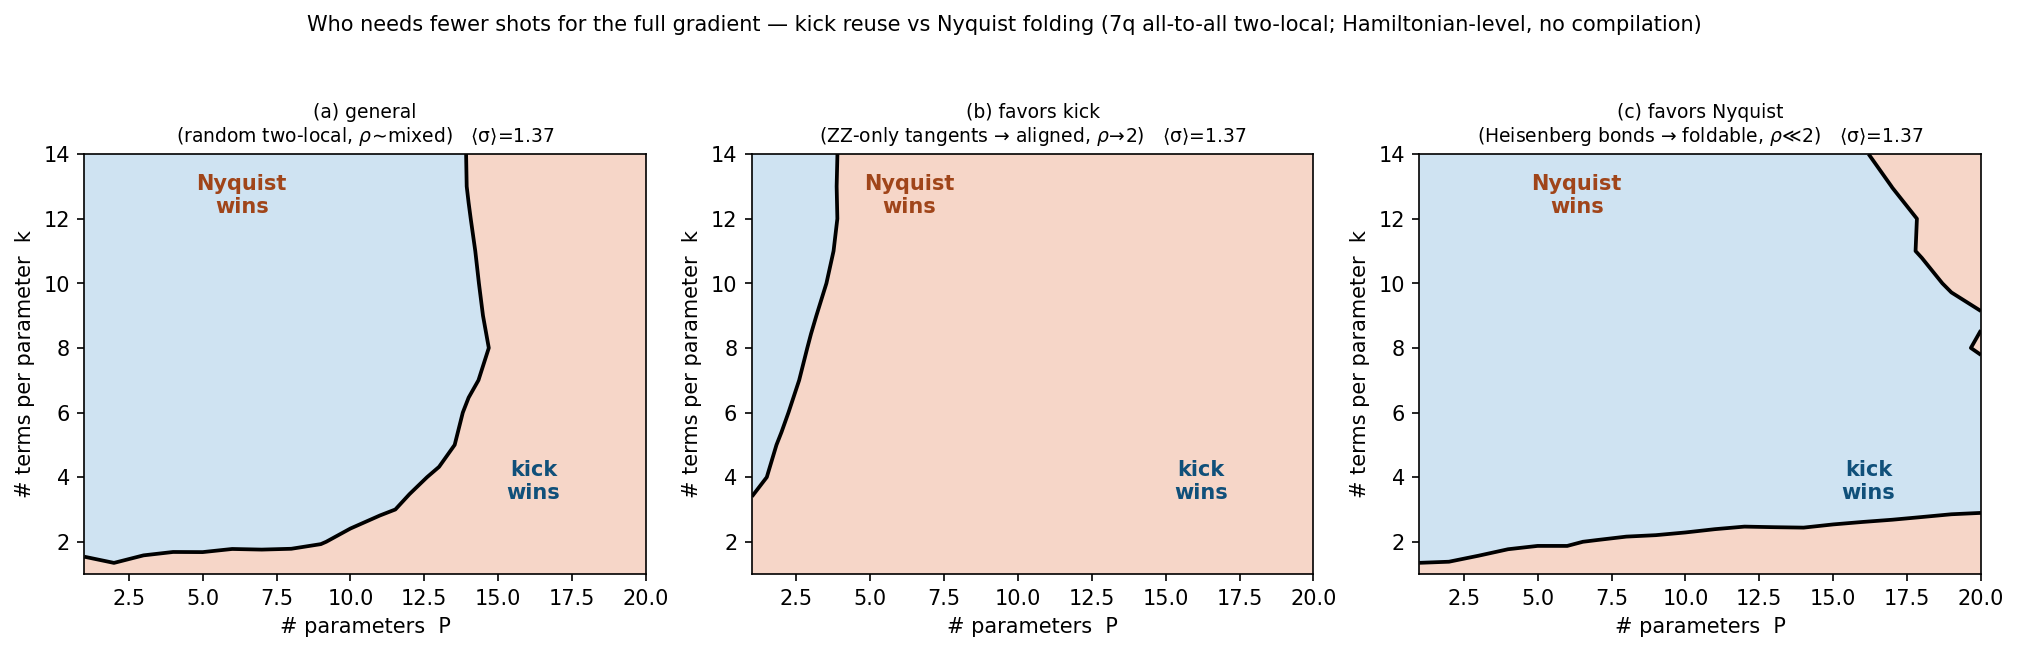
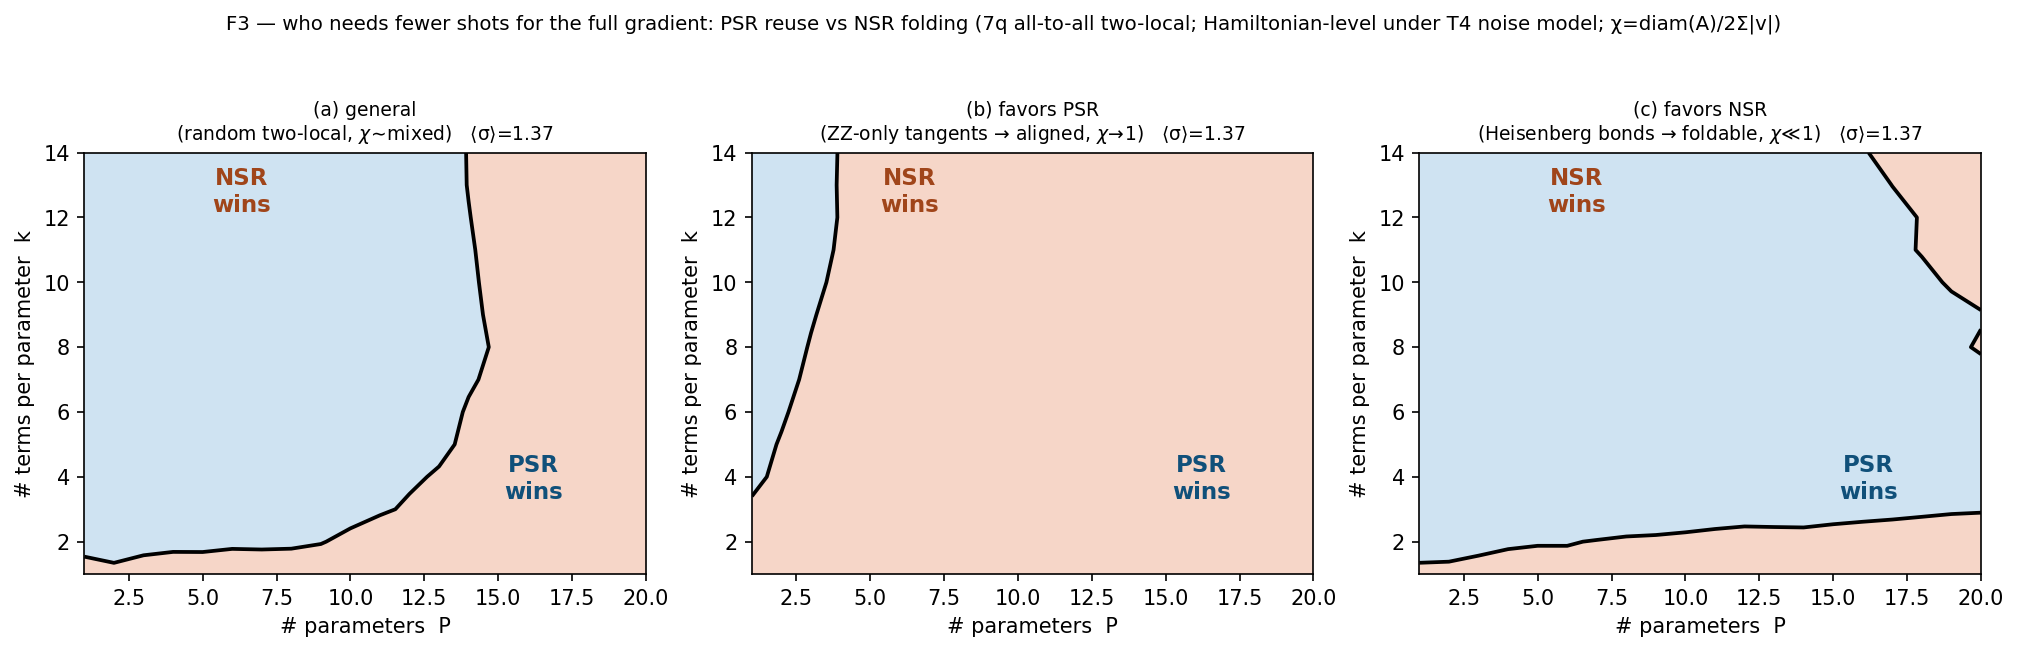
SEC6 P1-C (F3 relabel) + P0-B (T4 noise table)
F3: kick→PSR, Nyquist→NSR, ρ→χ (=diam(A)/2Σ|v|, aligned χ→1, foldable χ≪1), subtitle
now "Hamiltonian-level under T4 noise model" (no compiled spot-check overlay per
P0-A.5); ⟨σ⟩=1.37 kept in caption (P0-A.2).

T4: single-source-of-truth noise table (T4.csv + rendered PNG). Channels from
noise_model.py (dressed T2* dephasing, T1 off, Z-type kick gate error 1q=1e-4/2q=1e-3
Evered-anchored, leakage off) + control setpoint error δ=0.02. ALL rates θ-independent
(flagged — underlies PSR/NSR unbiasedness). Values marked best-guess pending
calibration confirmation. Data note: defaults are from the codebase; δ and gate-error
magnitudes are best-guess (P0-B uncertainty), used per the user's go-ahead.

diff --git a/differential_computing/tests/sec6_T4_noise_table.py b/differential_computing/tests/sec6_T4_noise_table.py
@@ -1,0 +1,85 @@
+"""
+sec6_T4_noise_table.py — P0-B: T4, the calibrated Hamiltonian-level noise model.
+
+Single source of truth for every noise number in Section 6.  These are the channels
+of noise_model.py (+ the parameter-level control error δ), applied by NoisyQuTiPRunner
+at the segment level.  It is a LITERATURE-CALIBRATED model, NOT a device calibration
+file — provenance strings marked (best-guess) are defaults from the codebase, to be
+confirmed.  KEY ASSUMPTION (flagged): every rate is θ-INDEPENDENT — this is what makes
+the compiled PSR/NSR estimator unbiased for ∇C_noisy (T1's noisy-gradient cell).
+
+Writes T4.csv and renders figures/sec6_T4_noise_table.png.
+Run: conda run -n qec_pg python differential_computing/tests/sec6_T4_noise_table.py
+"""
+import csv
+import os
+
+import matplotlib
+matplotlib.use("Agg")
+import matplotlib.pyplot as plt
+
+FIGDIR = os.path.abspath(os.path.join(os.path.dirname(__file__), "..", "figures"))
+OUTDIR = os.path.abspath(os.path.join(os.path.dirname(__file__), ".."))
+
+# columns: channel, operator, rate (default), source, segments applied, θ-indep, note
+ROWS = [
+    ["dressed T2* dephasing", "Z_i  (sqrt(γφ/2))", "γφ = 1/T2*,  T2* = 5.0 μs",
+     "dressed-state T2*/scattering (literature, Evered/Bluvstein-class)",
+     "interaction / dressed-evolution segments", "yes",
+     "regime set by T/T2* (0.15 headline, 0.5 appendix); T=T/T2*·T2*"],
+    ["T1 relaxation", "σ⁻_i  (sqrt(1/T1))", "1/T1,  T1 = ∞ (OFF)",
+     "amplitude damping (long-clock)",
+     "all segments (1q / halt / transport)", "yes",
+     "off by default in Sec 6 figs; long-clock price of Sec 5.2 is dephasing-dominated"],
+    ["kick gate error, 1q (Z-type)", "coh. exp(-iθZ) + incoh. Z-dephasing",
+     "ε_1q = 1e-4  (best-guess)",
+     "Evered et al. 2026 (arXiv:2604.25987); 1q ≈ 0",
+     "single-qubit kick-insertion segments", "yes",
+     "Z/phase-dominated (Doppler, |r'>), X≈0; magnitude best-guess"],
+    ["kick gate error, 2q (Z-type)", "coh. exp(-iθZ) + incoh. Z-dephasing",
+     "ε_2q = 1e-3  (best-guess)",
+     "Evered et al. 2026 (arXiv:2604.25987)",
+     "two-qubit (ZZ) kick-insertion segments", "yes",
+     "coherent fraction = 0.5 of ε (Doppler/laser-phase); rest incoherent Z"],
+    ["post-selected leakage", "Γ|1><1|_i (no-jump, renorm.)",
+     "Γ = 0 (OFF)",
+     "dressed |1> loss to dark ground sublevel",
+     "dressed segments", "yes",
+     "off in Sec 6 gradient figs; conditional (post-selected) evolution when on"],
+    ["control setpoint error δ", "additive θ-offset ~ N(0, r)",
+     "r = 0.02  (BEST-GUESS)",
+     "control resolution — NOT a device calibration; default from landscape_device.py",
+     "programmed θ setpoint: FD's θ±ε, PSR/NSR base θ", "yes",
+     "floors FD's ε and enters as δ/ε; ε-free PSR/NSR see only a 2nd-order shift"],
+]
+HEADER = ["channel", "operator", "rate (default)", "source", "segments applied",
+          "θ-independent", "note"]
+
+
+def main():
+    os.makedirs(FIGDIR, exist_ok=True)
+    with open(os.path.join(OUTDIR, "T4.csv"), "w", newline="") as f:
+        w = csv.writer(f); w.writerow(HEADER); w.writerows(ROWS)
+    print("wrote", os.path.join(OUTDIR, "T4.csv"))
+
+    fig, ax = plt.subplots(figsize=(13.5, 3.4)); ax.axis("off")
+    show = [[r[0], r[1], r[2], r[4], r[5]] for r in ROWS]   # drop source/note cols for width
+    cols = ["channel", "operator", "rate (default)", "segments", "θ-indep"]
+    t = ax.table(cellText=show, colLabels=cols, cellLoc="left", loc="center",
+                 colWidths=[0.22, 0.24, 0.20, 0.28, 0.08])
+    t.auto_set_font_size(False); t.set_fontsize(7.6); t.scale(1, 1.7)
+    for (r, c), cell in t.get_celld().items():
+        cell.set_edgecolor("#cccccc")
+        if r == 0:
+            cell.set_facecolor("#eeeeee"); cell.set_text_props(weight="bold")
+    ax.set_title("T4 — calibrated Hamiltonian-level noise model (single source of truth for Sec 6)\n"
+                 "all rates θ-INDEPENDENT (⇒ PSR/NSR unbiased for ∇C_noisy);  full source/notes in T4.csv;"
+                 "  values marked best-guess pending calibration confirmation", fontsize=9)
+    fig.tight_layout()
+    fig.savefig(os.path.join(FIGDIR, "sec6_T4_noise_table.png"), dpi=150, bbox_inches="tight")
+    plt.close(fig)
+    print("wrote figures/sec6_T4_noise_table.png")
+
+
+if __name__ == "__main__":
+    main()

diff --git a/differential_computing/tests/phase_who_wins_3panel.py b/differential_computing/tests/phase_who_wins_3panel.py
@@ -141,11 +141,11 @@ def draw(ax, Zg, Ps, ks, title):
     ax.contour(Pg, Kg, Zs, levels=[0.0], colors="k", linewidths=1.8)
     # region labels
     if (Zg < 0).mean() > 0.05:
-        ax.text(0.28, 0.86, "Nyquist\nwins", transform=ax.transAxes, color="#a0451a",
-                fontsize=10, weight="bold", ha="center")
+        ax.text(0.28, 0.86, "NSR\nwins", transform=ax.transAxes, color="#a0451a",
+                fontsize=11, weight="bold", ha="center")
     if (Zg > 0).mean() > 0.05:
-        ax.text(0.80, 0.18, "kick\nwins", transform=ax.transAxes, color="#10507a",
-                fontsize=10, weight="bold", ha="center")
+        ax.text(0.80, 0.18, "PSR\nwins", transform=ax.transAxes, color="#10507a",
+                fontsize=11, weight="bold", ha="center")
     ax.set_xlabel("# parameters  P"); ax.set_ylabel("# terms per parameter  k")
     ax.set_title(title, fontsize=9)
 
@@ -161,9 +161,9 @@ def main():
 
     Ps = list(range(1, 21)); ks = list(range(1, 15)); seeds = 6
     panels = [
-        ("random", "highent", "(a) general\n(random two-local, $\\rho\\!\\sim\\!$mixed)"),
-        ("zz", "highent", "(b) favors kick\n(ZZ-only tangents → aligned, $\\rho\\!\\to\\!2$)"),
-        ("heisenberg", "highent", "(c) favors Nyquist\n(Heisenberg bonds → foldable, $\\rho\\!\\ll\\!2$)"),
+        ("random", "highent", "(a) general\n(random two-local, $\\chi\\!\\sim\\!$mixed)"),
+        ("zz", "highent", "(b) favors PSR\n(ZZ-only tangents → aligned, $\\chi\\!\\to\\!1$)"),
+        ("heisenberg", "highent", "(c) favors NSR\n(Heisenberg bonds → foldable, $\\chi\\!\\ll\\!1$)"),
     ]
     fig, axs = plt.subplots(1, 3, figsize=(13.5, 4.4))
     for ax, (kind, st, title) in zip(axs, panels):
@@ -171,8 +171,9 @@ def main():
                          np.random.default_rng(1))
         draw(ax, Zg, Ps, ks, title + f"   ⟨σ⟩={sm:.2f}")
         print(f"{kind}/{st}: mean σ={sm:.3f}, Nyquist-win fraction={ (Zg<0).mean():.2f}")
-    fig.suptitle("Who needs fewer shots for the full gradient — kick reuse vs Nyquist folding "
-                 "(7q all-to-all two-local; Hamiltonian-level, no compilation)", fontsize=10)
+    fig.suptitle("F3 — who needs fewer shots for the full gradient: PSR reuse vs NSR folding "
+                 "(7q all-to-all two-local; Hamiltonian-level under T4 noise model; χ=diam(A)/2Σ|v|)",
+                 fontsize=9.5)
     fig.tight_layout(rect=[0, 0, 1, 0.95])
     out = os.path.join(FIGDIR, "phase_who_wins_3panel.png")
     fig.savefig(out, dpi=150, bbox_inches="tight"); plt.close(fig)
